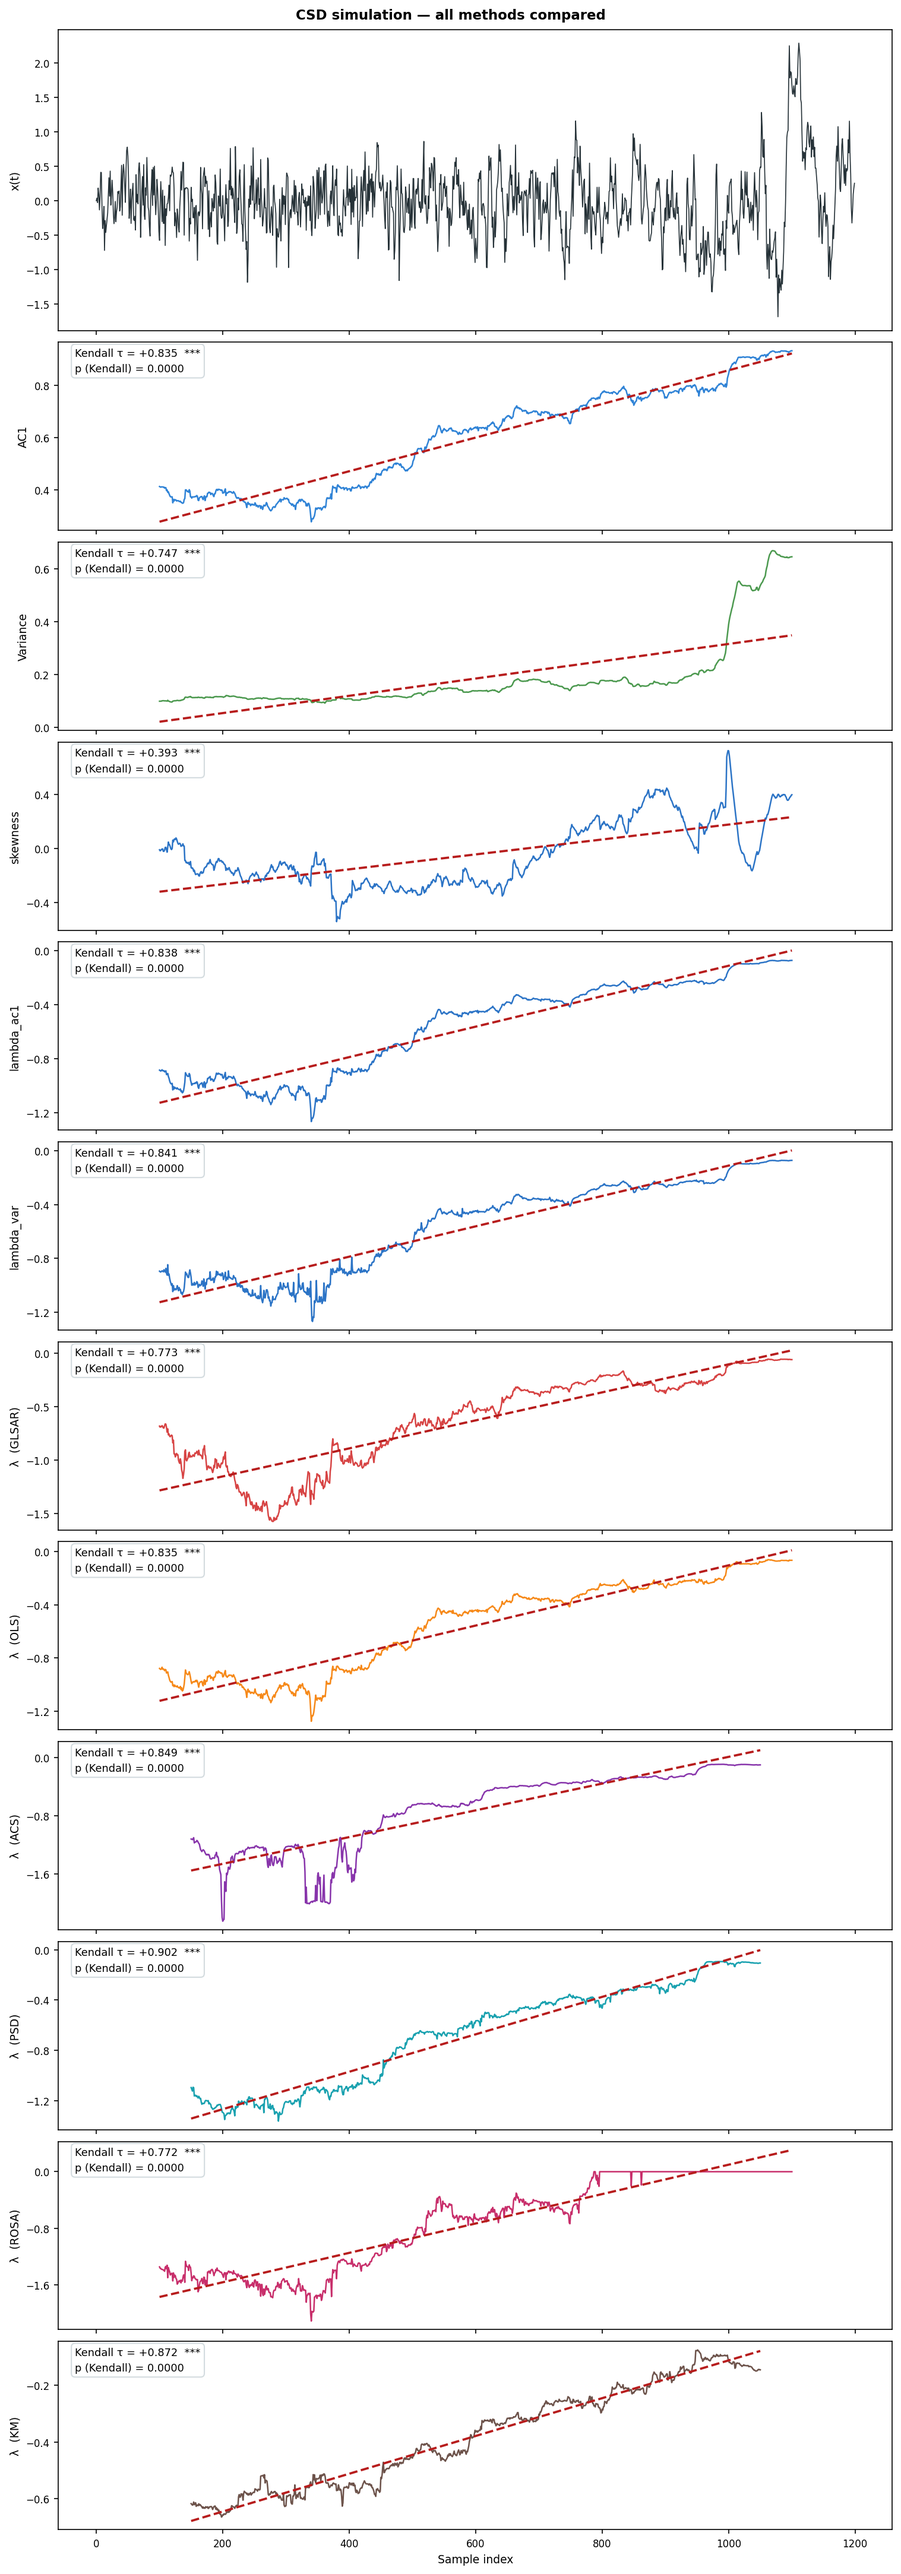
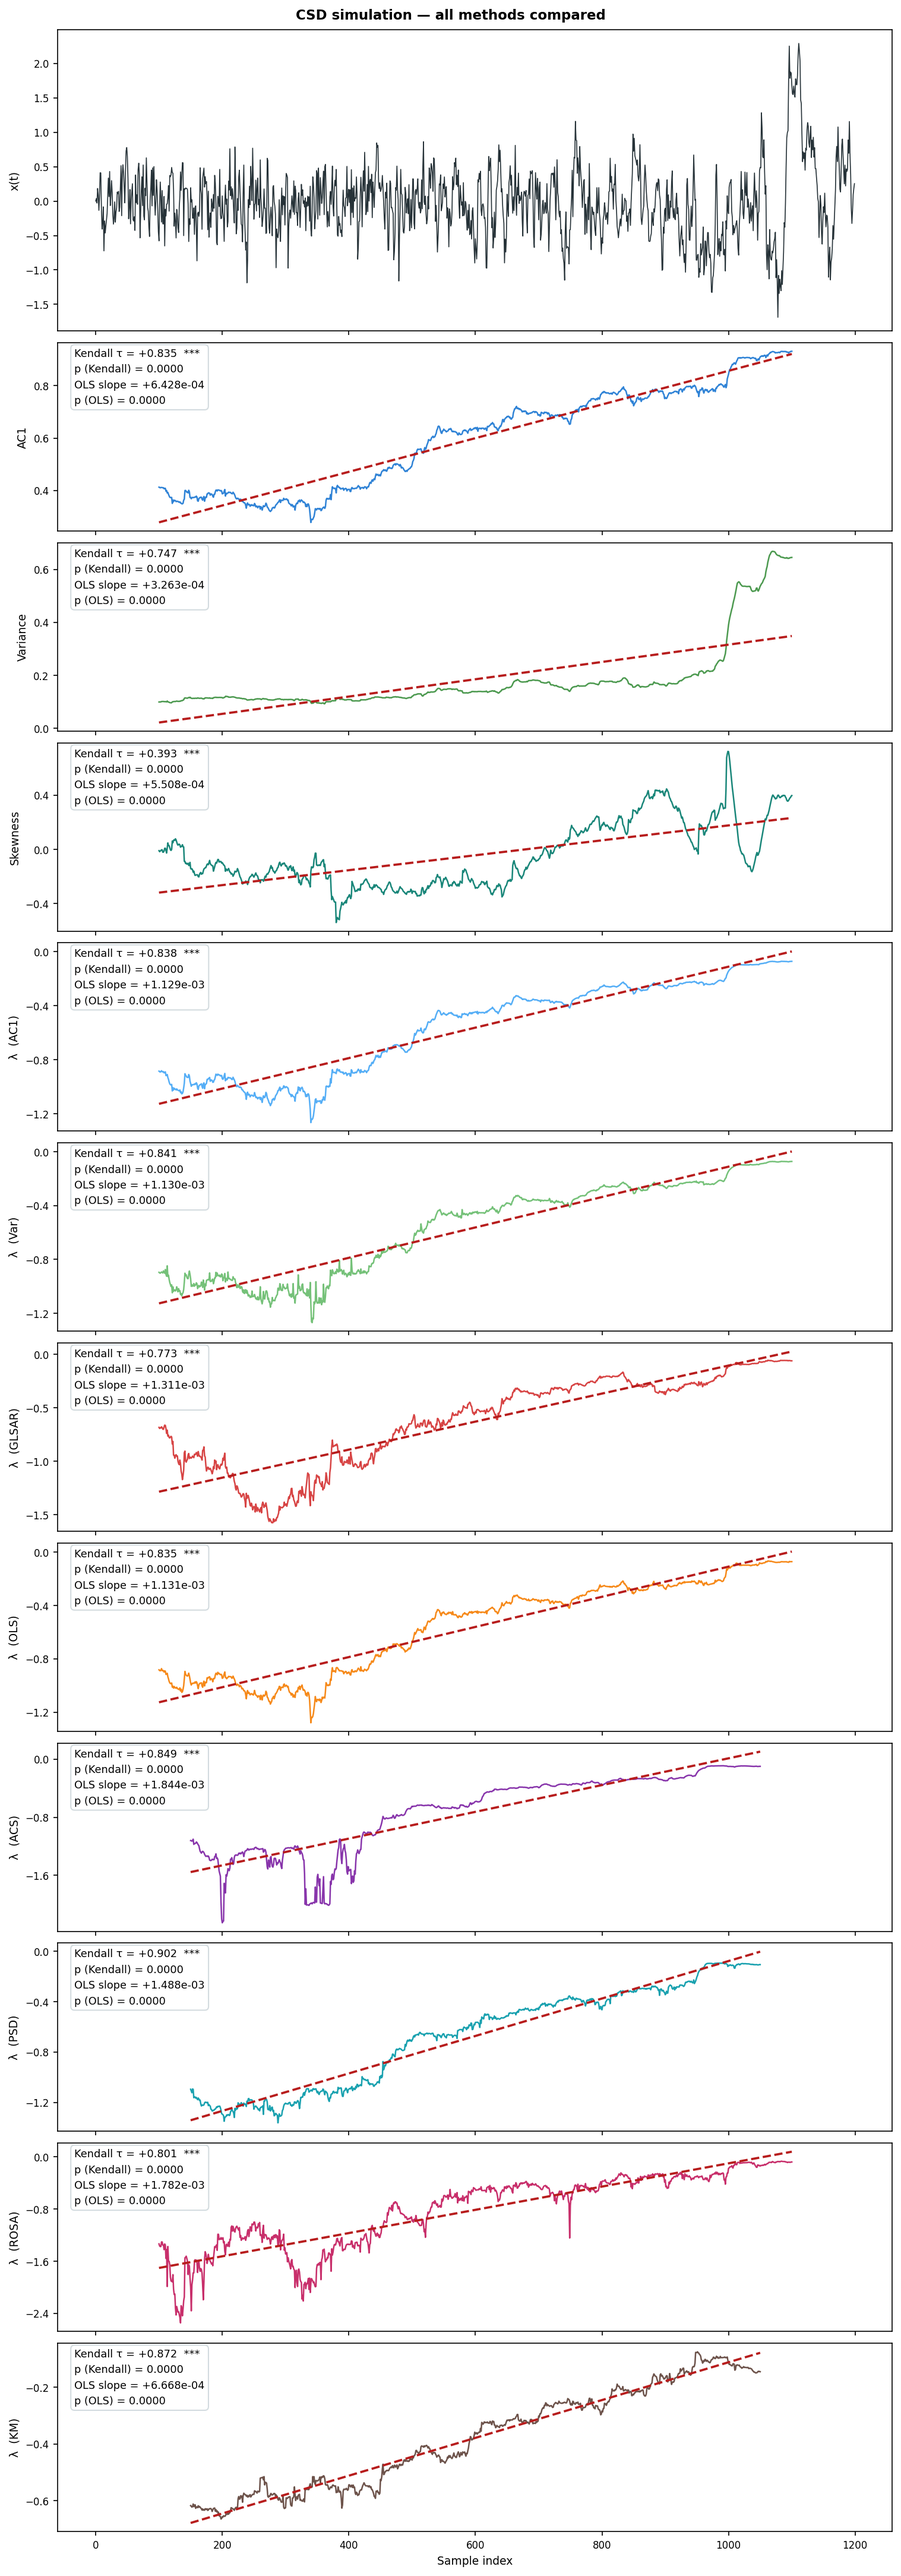
Allow for computing multiple trend methods

diff --git a/csdtools/plotting.py b/csdtools/plotting.py
@@ -30,6 +30,7 @@ from matplotlib.gridspec import GridSpec
 from typing import Optional, Dict, List, Sequence, Tuple, Union
 
 from .trend import (
+    assess_trend,
     fitted_trend_line,
     format_trend_details,
     format_trend_statistic,
@@ -129,6 +130,7 @@ def _annotate_stats(
     ax: plt.Axes,
     result,
     loc: str = "upper left",
+    additional_trend_methods: Sequence[str] = (),
 ) -> None:
     """
     Place a stats box with the selected trend statistic and p-values.
@@ -140,6 +142,9 @@ def _annotate_stats(
         Analysis result containing the selected trend assessment.
     loc : str
         'upper left', 'upper right', 'lower left', or 'lower right'.
+    additional_trend_methods : sequence of str
+        Further registered trend assessments to compute and show below the
+        selected assessment.
     """
     method, statistic, p_value, _ = _trend_values(result)
     surrogate_p = result.surrogate_p_value
@@ -154,6 +159,28 @@ def _annotate_stats(
     if surrogate_p is not None and np.isfinite(surrogate_p):
         lines.append(f"p (surrogate) = {surrogate_p:.4f}")
     lines.extend(format_trend_details(method, result.trend_details))
+
+    trend_times = np.asarray(result.times, dtype=float) * result.dt
+    shown_methods = {method}
+    for additional_method in additional_trend_methods:
+        if additional_method in shown_methods:
+            continue
+        shown_methods.add(additional_method)
+        additional = assess_trend(
+            result.indicator,
+            times=trend_times,
+            method=additional_method,
+            alternative=result.trend_alternative,
+        )
+        lines.append(
+            f"{trend_statistic_label(additional_method)} = "
+            f"{format_trend_statistic(additional_method, additional.statistic)}"
+        )
+        additional_p_label = trend_analytical_test_label(additional_method)
+        if additional.p_value is not None and np.isfinite(additional.p_value):
+            lines.append(
+                f"p ({additional_p_label}) = {additional.p_value:.4f}"
+            )
 
     x_pos = 0.02 if "left" in loc else 0.98
     y_pos = 0.97 if "upper" in loc else 0.03
@@ -182,6 +209,7 @@ def _draw_indicator_panel(
     show_significance: bool,
     indicator_kwargs: dict,
     stats_loc: str,
+    additional_trend_methods: Sequence[str],
 ) -> None:
     """
     Render the indicator line, optional trend, and optional stats box
@@ -208,6 +236,7 @@ def _draw_indicator_panel(
             ax,
             result,
             loc=stats_loc,
+            additional_trend_methods=additional_trend_methods,
         )
 
     ax.tick_params(labelsize=8)
@@ -234,6 +263,7 @@ def plot_analysis(
     ts_kwargs: Optional[dict] = None,
     indicator_kwargs: Optional[dict] = None,
     height_ratios: Tuple[float, float] = (1.8, 2.2),
+    additional_trend_methods: Optional[Sequence[str]] = None,
 ) -> Tuple[plt.Figure, np.ndarray]:
     """
     Two-panel figure: time series (top) + CSD indicator (bottom).
@@ -273,6 +303,10 @@ def plot_analysis(
         Extra keyword arguments forwarded to ``ax.plot`` for the indicator.
     height_ratios : (float, float)
         Relative heights of the time series and indicator panels.
+    additional_trend_methods : sequence of str or None
+        Additional registered trend assessments to show in the stats box.
+        They are computed from the existing indicator values; duplicates of
+        ``result.trend_method`` are ignored.
 
     Returns
     -------
@@ -321,6 +355,7 @@ def plot_analysis(
     _draw_indicator_panel(
         ax_ind, result, t_ind, ic,
         show_trend, show_significance, ind_kw, stats_loc,
+        tuple(additional_trend_methods or ()),
     )
     ax_ind.set_xlabel(x_label, fontsize=9)
 
@@ -344,6 +379,7 @@ def plot_multi_analysis(
     ts_color: Optional[str] = None,
     ts_kwargs: Optional[dict] = None,
     indicator_kwargs: Optional[dict] = None,
+    additional_trend_methods: Optional[Sequence[str]] = None,
 ) -> Tuple[plt.Figure, np.ndarray]:
     """
     Stacked figure: time series (top) + one panel per CSD indicator.
@@ -377,6 +413,8 @@ def plot_multi_analysis(
         Extra kwargs for the time series line.
     indicator_kwargs : dict or None
         Extra kwargs for every indicator line.
+    additional_trend_methods : sequence of str or None
+        Additional registered trend assessments to show in every stats box.
 
     Returns
     -------
@@ -442,6 +480,7 @@ def plot_multi_analysis(
         _draw_indicator_panel(
             ax, result, t_ind, color,
             show_trend, show_significance, ind_kw, stats_loc,
+            tuple(additional_trend_methods or ()),
         )
 
         # Use the dict key as the y-label when it differs from the method name
@@ -619,6 +658,7 @@ def plot_indicator_on_ax(
     show_significance: bool = True,
     color: Optional[str] = None,
     stats_loc: str = "upper left",
+    additional_trend_methods: Optional[Sequence[str]] = None,
     **plot_kwargs,
 ) -> plt.Axes:
     """
@@ -642,6 +682,8 @@ def plot_indicator_on_ax(
         Indicator line colour.
     stats_loc : str
         Position of the stats box.
+    additional_trend_methods : sequence of str or None
+        Additional registered trend assessments to show in the stats box.
     **plot_kwargs
         Extra kwargs for the indicator ``ax.plot`` call.
 
@@ -667,5 +709,6 @@ def plot_indicator_on_ax(
     _draw_indicator_panel(
         ax, result, t_ind, c,
         show_trend, show_significance, plot_kwargs, stats_loc,
+        tuple(additional_trend_methods or ()),
     )
     return ax

diff --git a/tests/test_trend.py b/tests/test_trend.py
@@ -223,6 +223,29 @@ class TrendAssessmentTests(unittest.TestCase):
         plt.close(fig_analysis)
         plt.close(fig_significance)
 
+    def test_plot_can_show_an_additional_linear_assessment(self):
+        rng = np.random.default_rng(12)
+        x = rng.standard_normal(120)
+        result = analyze_timeseries(
+            x,
+            method="variance",
+            window_size=30,
+            step=5,
+            detrend=None,
+            trend_method="kendall",
+        )
+
+        fig, axes = plot_analysis(
+            x,
+            result,
+            additional_trend_methods=("linear",),
+        )
+        annotation = "\n".join(text.get_text() for text in axes[1].texts)
+        self.assertIn("Kendall τ", annotation)
+        self.assertIn("OLS slope", annotation)
+        self.assertIn("p (OLS)", annotation)
+        plt.close(fig)
+
 
 if __name__ == "__main__":
     unittest.main()

diff --git a/csdtools/examples/basic_analysis.py b/csdtools/examples/basic_analysis.py
@@ -102,6 +102,7 @@ fig1, axes1 = plot_multi_analysis(
     title="CSD simulation — all methods compared",
     show_trend=True,
     show_significance=True,
+    additional_trend_methods=("linear",),
 )
 fig1.savefig("csd_basic_multi.png", dpi=150, bbox_inches="tight")
 print("\nFigure saved to csd_basic_multi.png")

diff --git a/csdtools/examples/multivariate_analysis.py b/csdtools/examples/multivariate_analysis.py
@@ -129,6 +129,7 @@ for ax, (r, color, ylabel) in zip(axes[1:], indicator_cfg):
         show_significance=True,
         color=color,
         stats_loc="upper left",
+        additional_trend_methods=("linear",),
     )
     ax.set_ylabel(ylabel, fontsize=8)
 

diff --git a/README.md b/README.md
@@ -1179,6 +1179,7 @@ plt.show()
 | `ts_color` | Time series line colour |
 | `indicator_color` | Indicator line colour |
 | `stats_loc` | Box position: `'upper left'` / `'upper right'` / `'lower left'` / `'lower right'` |
+| `additional_trend_methods` | Extra assessments to include in the stats box, e.g. `('linear',)` |
 | `ts_kwargs` / `indicator_kwargs` | Any extra `ax.plot` keyword arguments |
 | `height_ratios` | Relative heights of the two panels |
 
@@ -1300,8 +1301,8 @@ python -m csdtools.examples.rosa_analysis
 ### All-methods comparison
 
 The multi-method plot shows the original time series (top) alongside all 11
-CSD indicators in stacked panels, each with an OLS trend line and
-annotated Kendall τ / p-value.
+CSD indicators in stacked panels. Each panel includes its OLS trend line,
+Kendall τ / p-value, and the corresponding OLS slope / p-value.
 
 ![All-methods comparison](docs/csd_basic_multi.png)
 
@@ -1324,8 +1325,8 @@ null distribution, confirming a statistically significant trend.
 
 The multivariate plot shows a 2D coupled AR(1) time series (top) alongside
 all three nD indicators — Kramers-Moyal drift Jacobian, DMD eigenvalue
-magnitude, and spatial correlation — each with an OLS trend line and
-annotated Kendall τ / p-value.
+magnitude, and spatial correlation — each with an OLS trend line, annotated
+Kendall τ / p-value, and OLS slope / p-value.
 
 ![Multivariate CSD analysis](docs/csd_multivariate.png)
 
